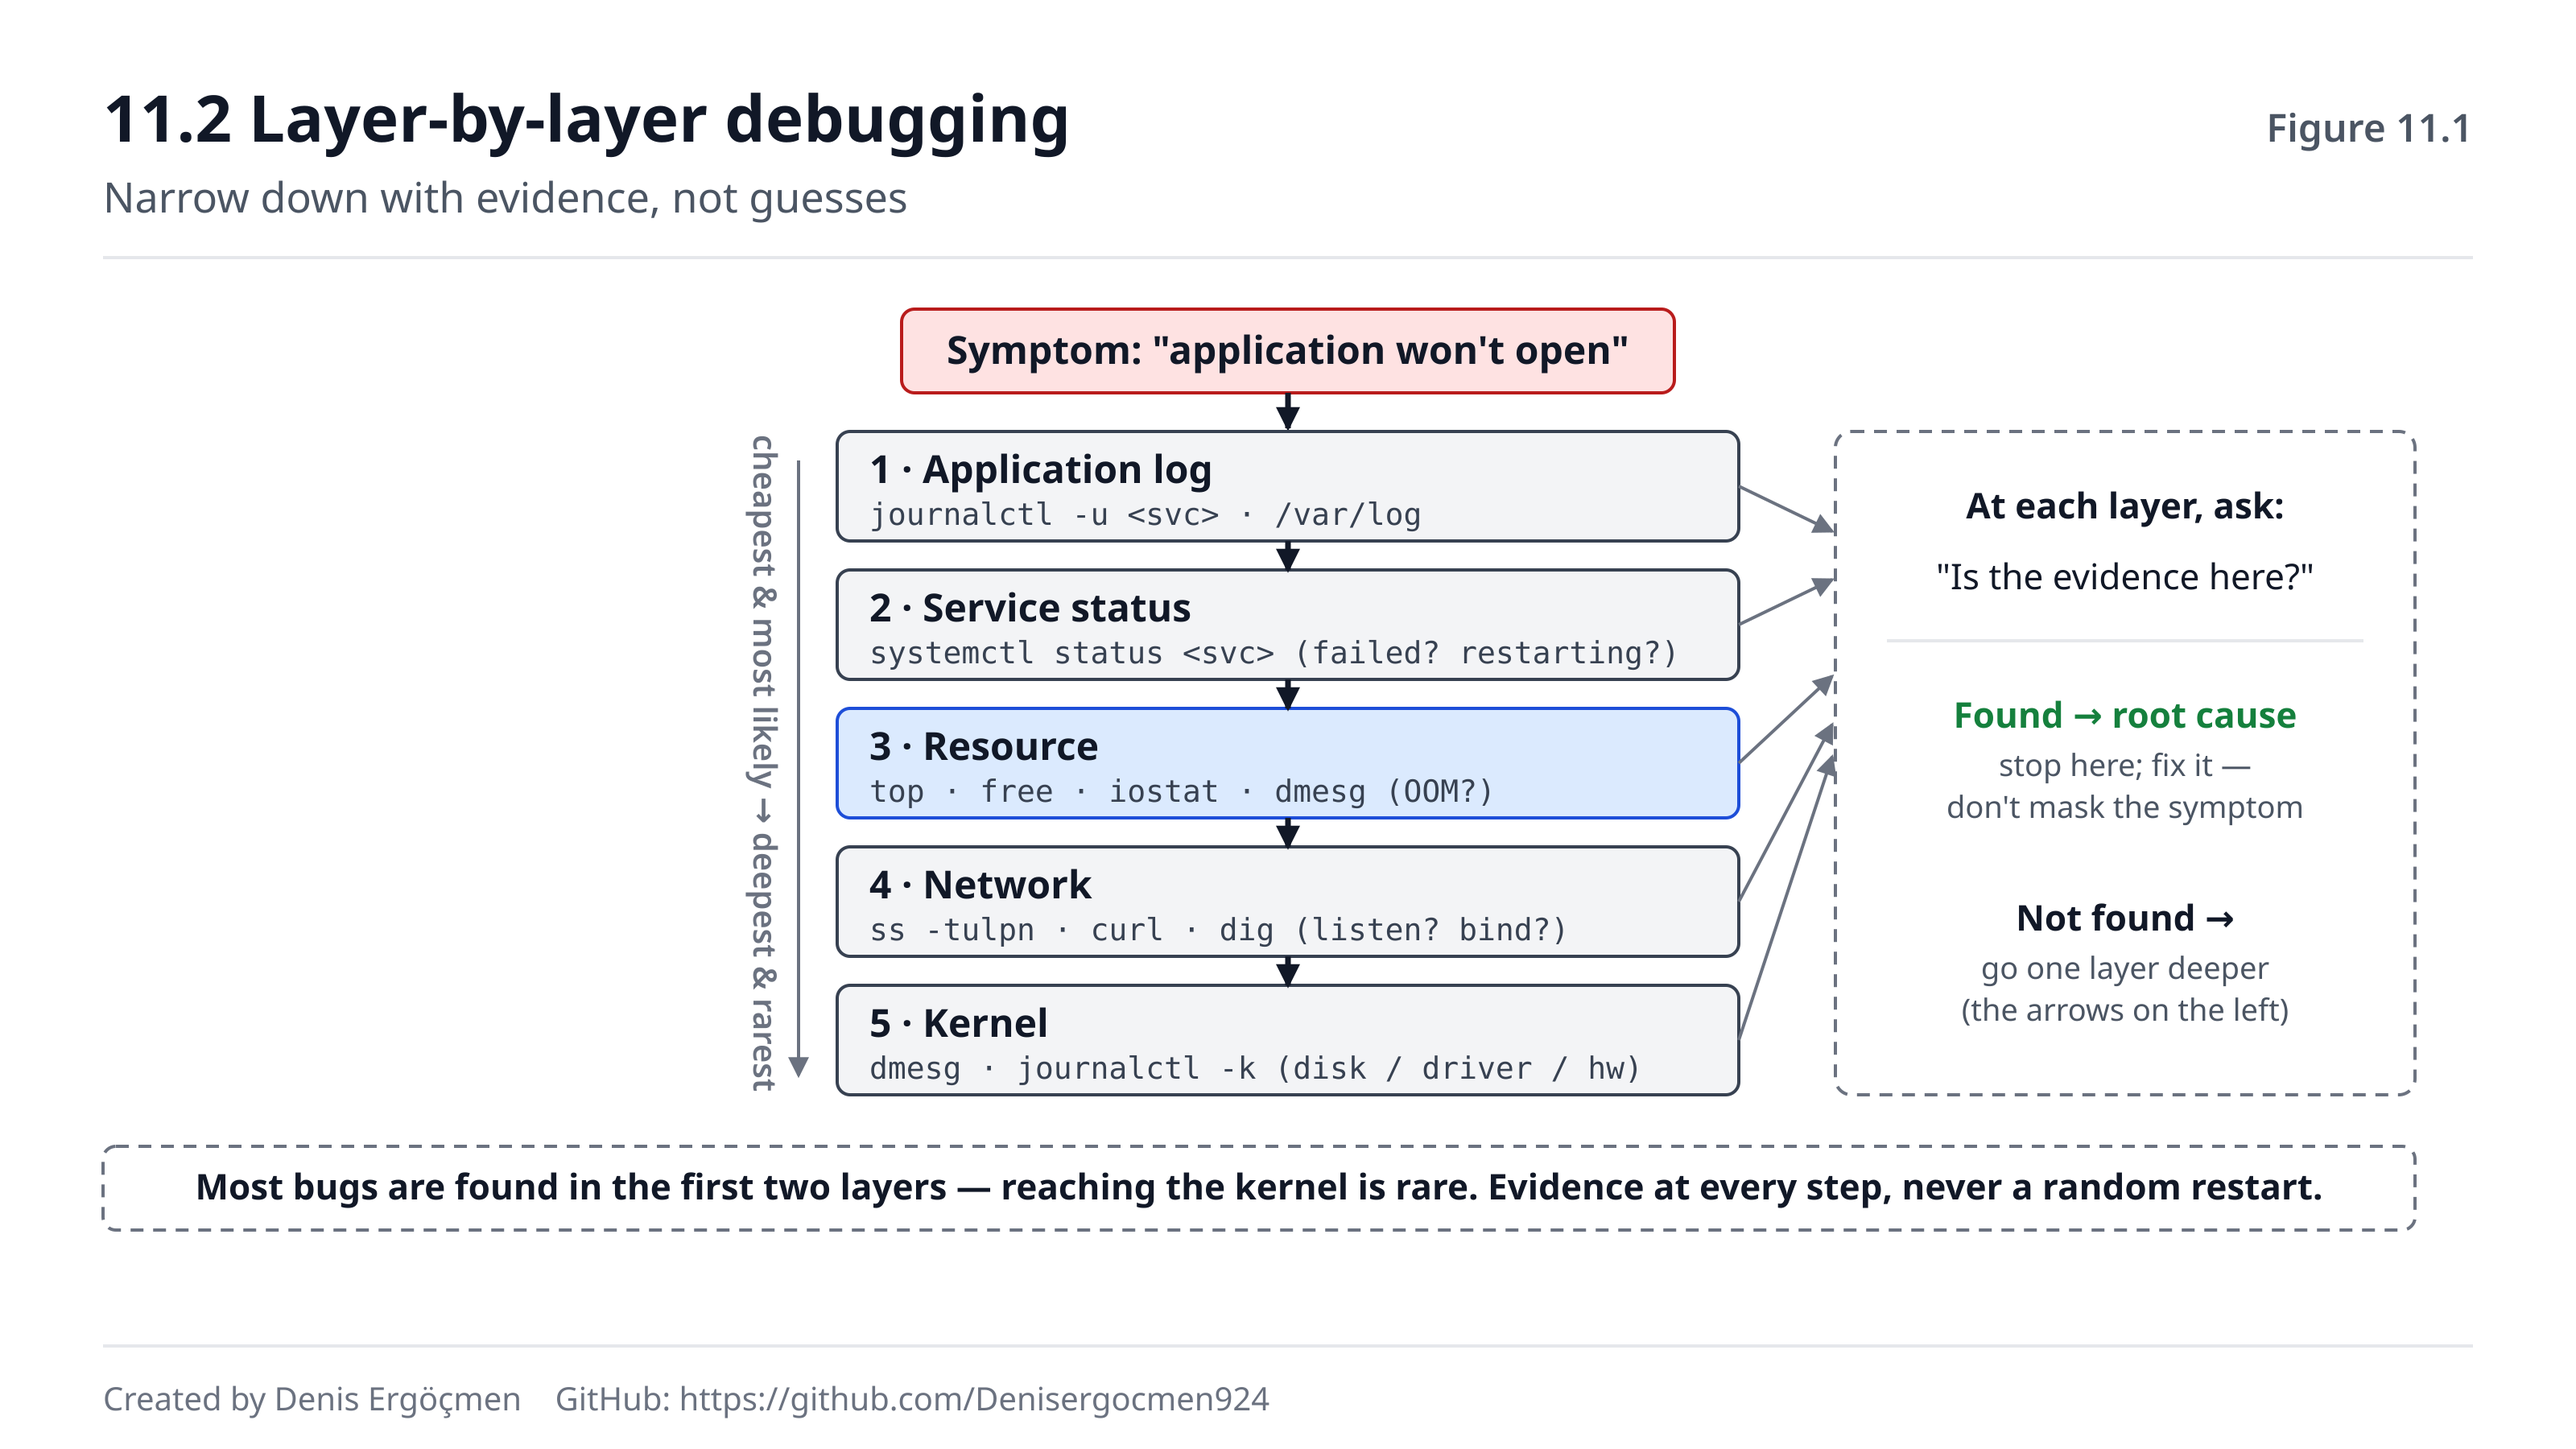
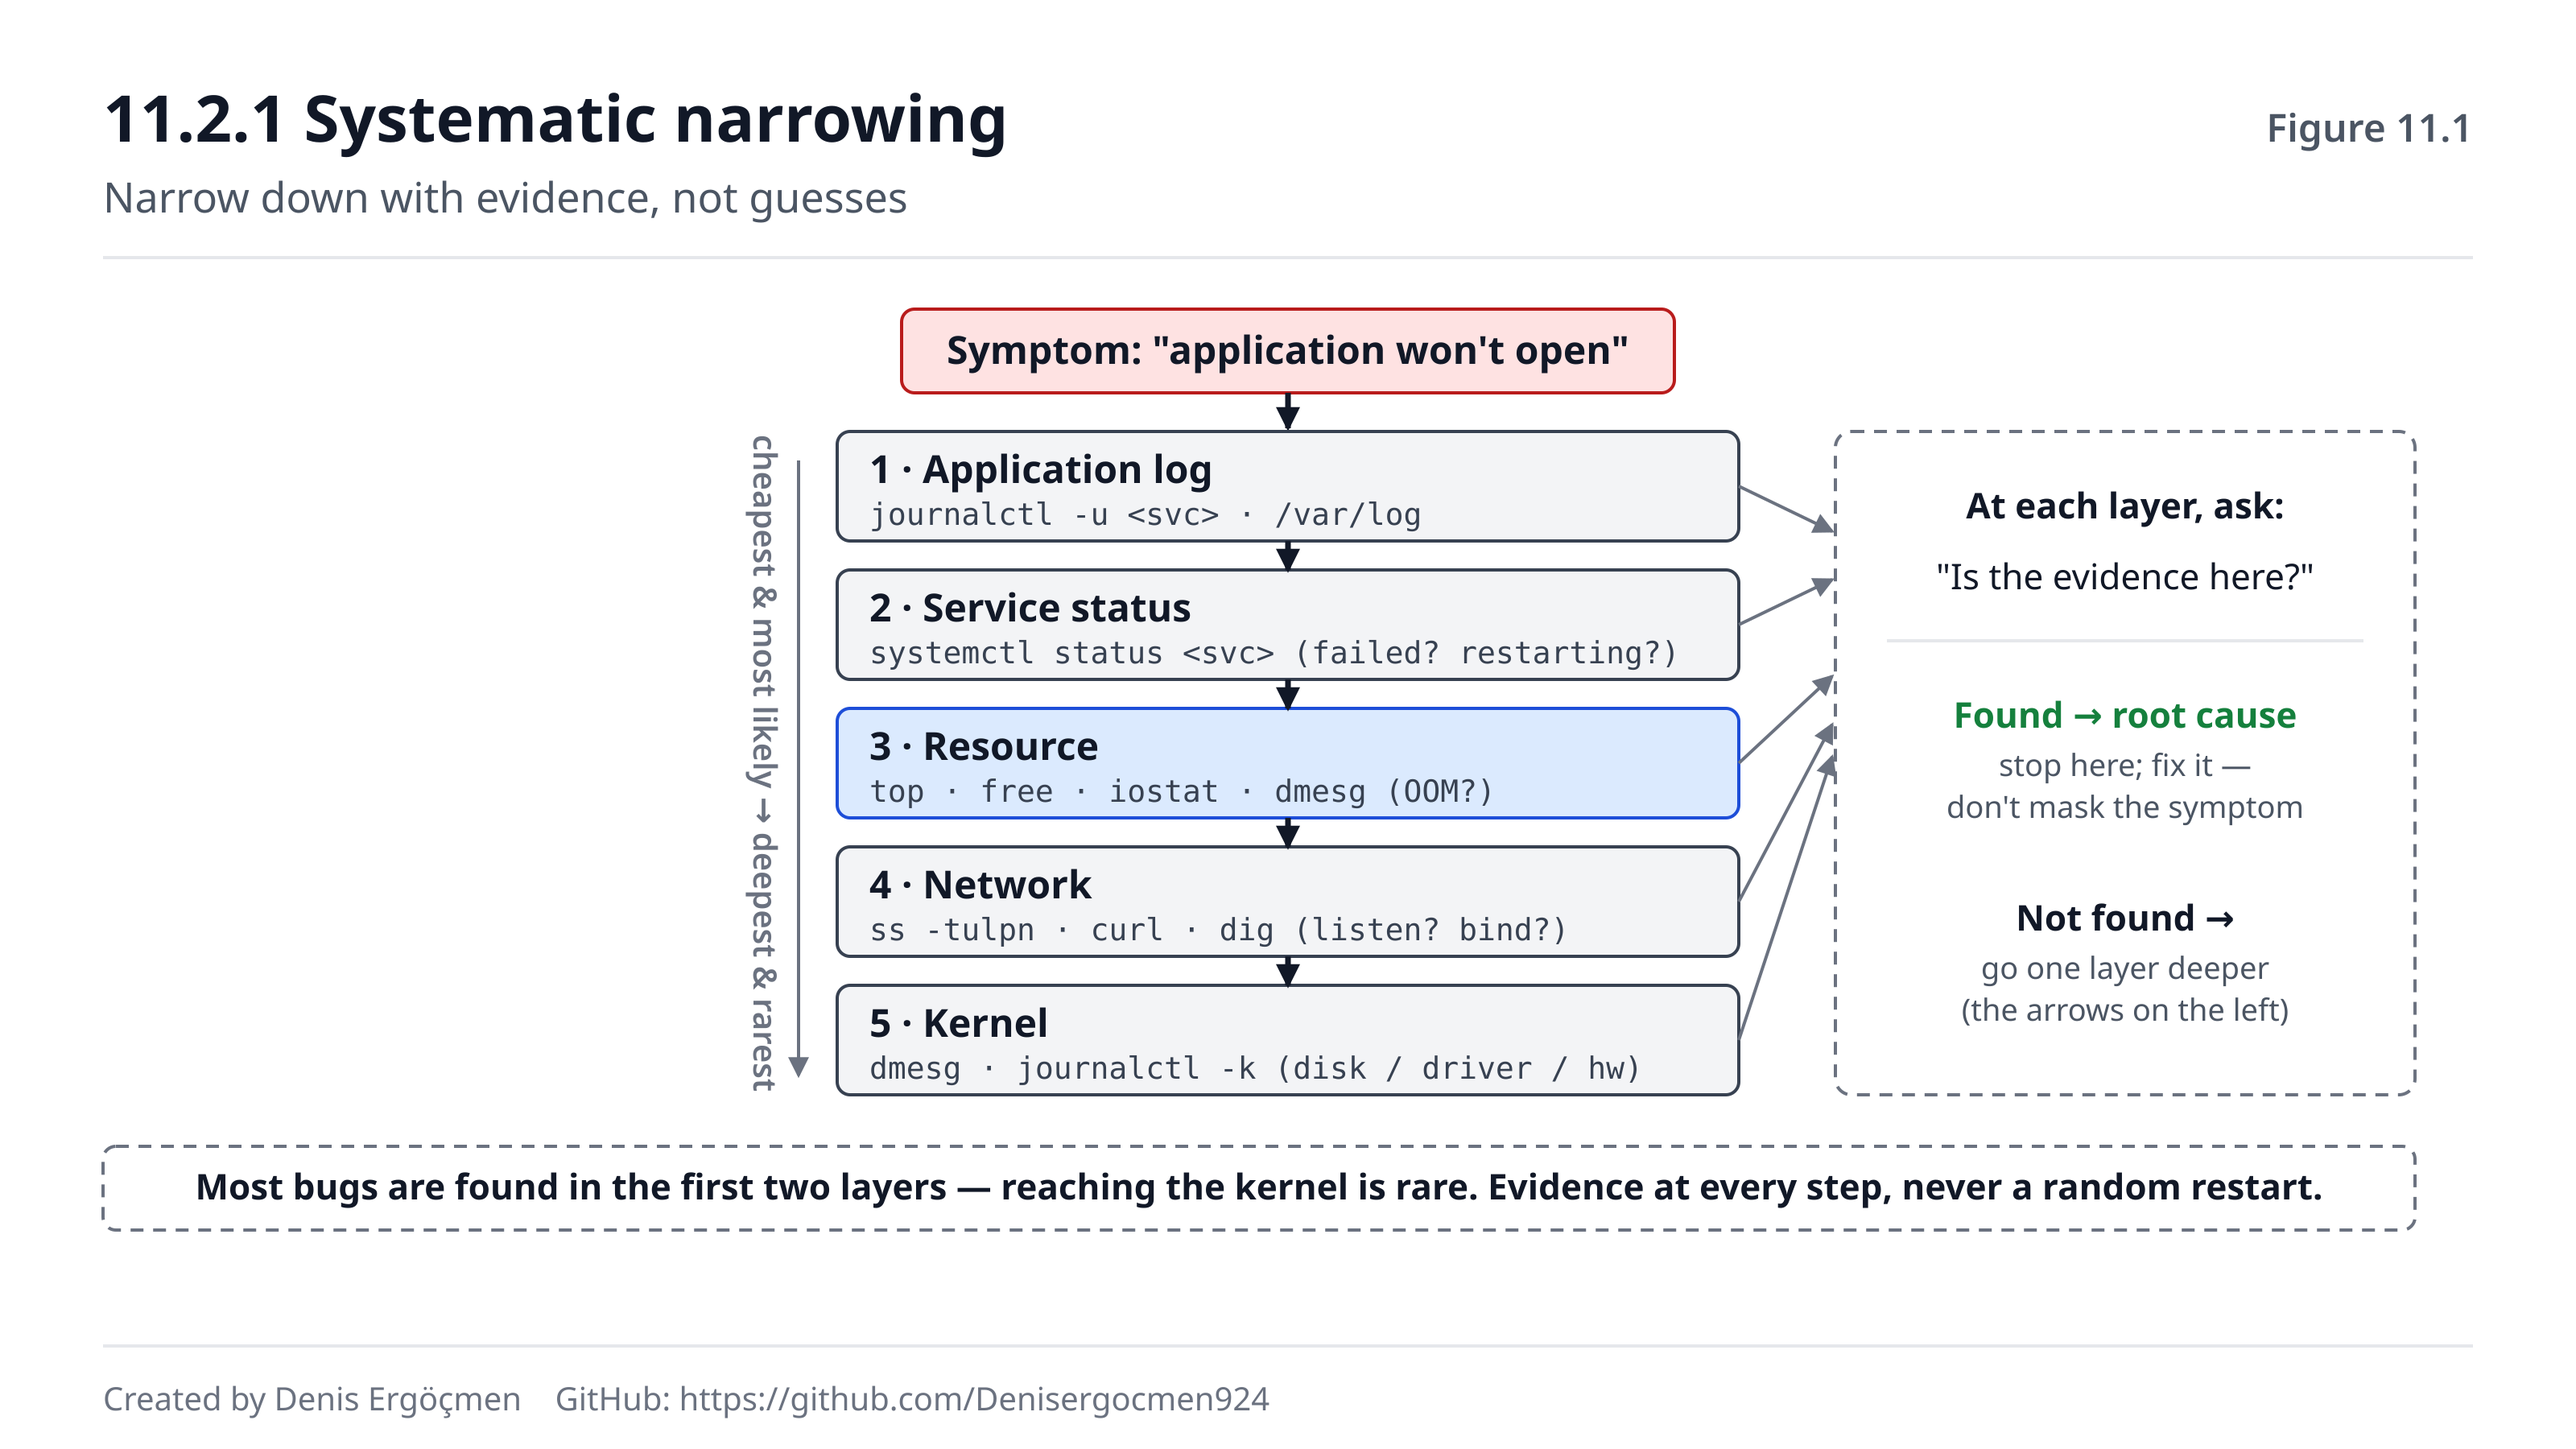
Fix lx-11-01 and lx-12-01 diagram headers: English source, valid section labels

Changed region(s): [[0.0938, 0.0622, 0.4375, 0.1244]]

diff --git a/Cloud Learning With Workbooks/Cloud_linux.roadmap/diagrams/Diagram_Inventory.md b/Cloud Learning With Workbooks/Cloud_linux.roadmap/diagrams/Diagram_Inventory.md
@@ -22,5 +22,5 @@
 | [`lx-8-01-script-to-service`](png/lx-8-01-script-to-service.png) | 8.1 | 8.2 From a script to a managed service | Comparison | 900 |
 | [`lx-9-01-defense-in-depth`](png/lx-9-01-defense-in-depth.png) | 9.1 | 9.1 Defense in depth | Layered model (nested) | 900 |
 | [`lx-10-01-idempotency`](png/lx-10-01-idempotency.png) | 10.1 | 10.4 Idempotency | Comparison | 900 |
-| [`lx-11-01-debugging-layers`](png/lx-11-01-debugging-layers.png) | 11.1 | 11.2 Layer-by-layer debugging methodology | Flow (decision / layered narrowing) | 900 |
-| [`lx-12-01-ami-to-production`](png/lx-12-01-ami-to-production.png) | 12.1 | 12 — the empty-AMI-to-production journey | Flow (pipeline with foundation mapping) | 900 |
+| [`lx-11-01-debugging-layers`](png/lx-11-01-debugging-layers.png) | 11.1 | 11.2.1 Not panic, but systematic narrowing | Flow (decision / layered narrowing) | 900 |
+| [`lx-12-01-ami-to-production`](png/lx-12-01-ami-to-production.png) | 12.1 | Phase 12 — The phase map (unnumbered, before 12.1) | Flow (pipeline with foundation mapping) | 900 |
